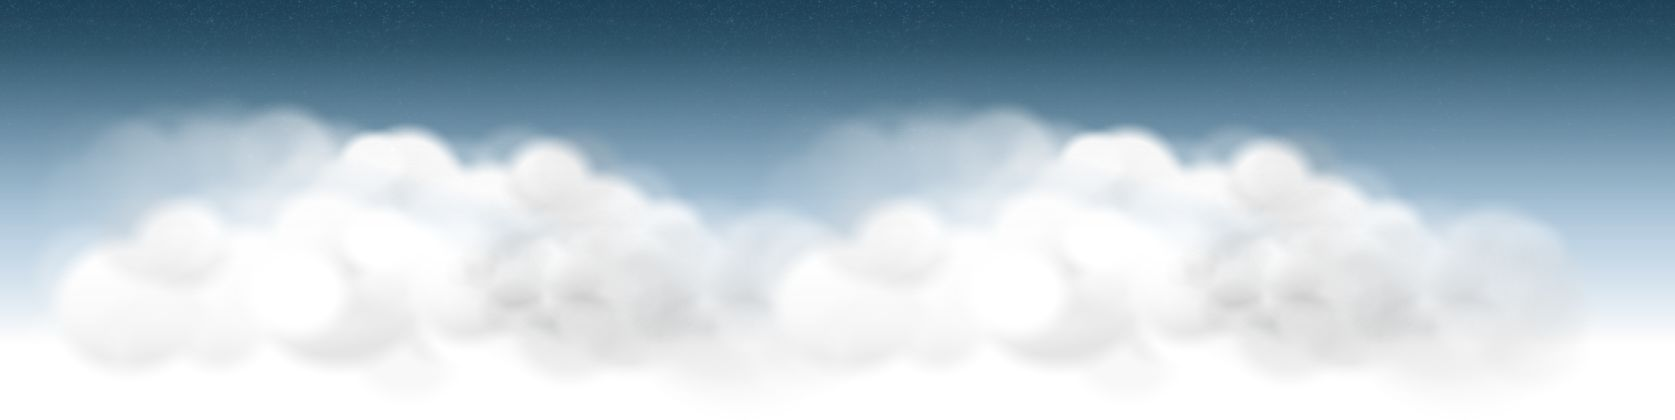
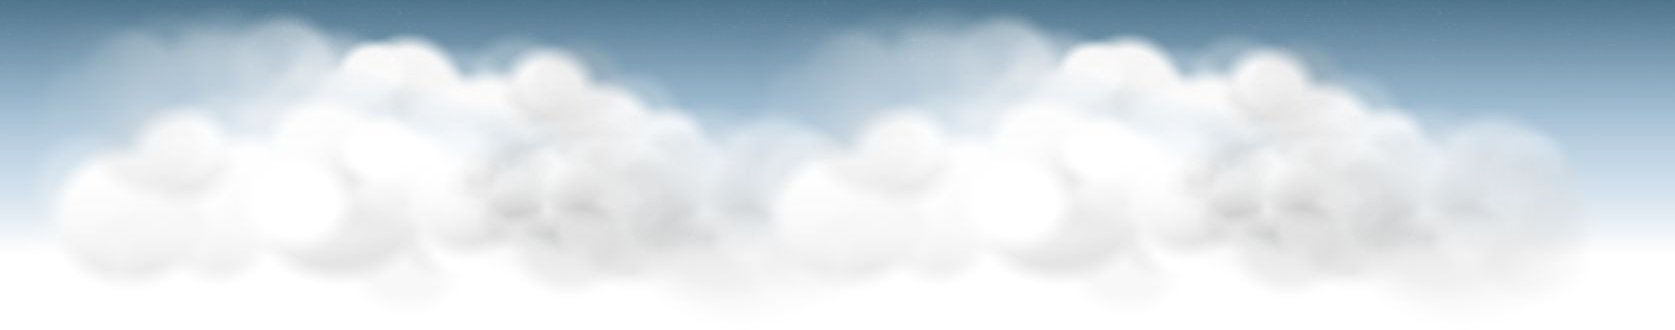
keywords

diff --git a/public/stylesheets/master.css b/public/stylesheets/master.css
@@ -90,7 +90,7 @@ body {
   margin: 0;
   padding: 0;
   background-color: white;
-  background: url(/images/bg-clouds2.jpg) repeat-x center top white; }
+  background: url(/images/bg-clouds.jpg) repeat-x center top white; }
 
 table, body {
   font-family: Arial;
